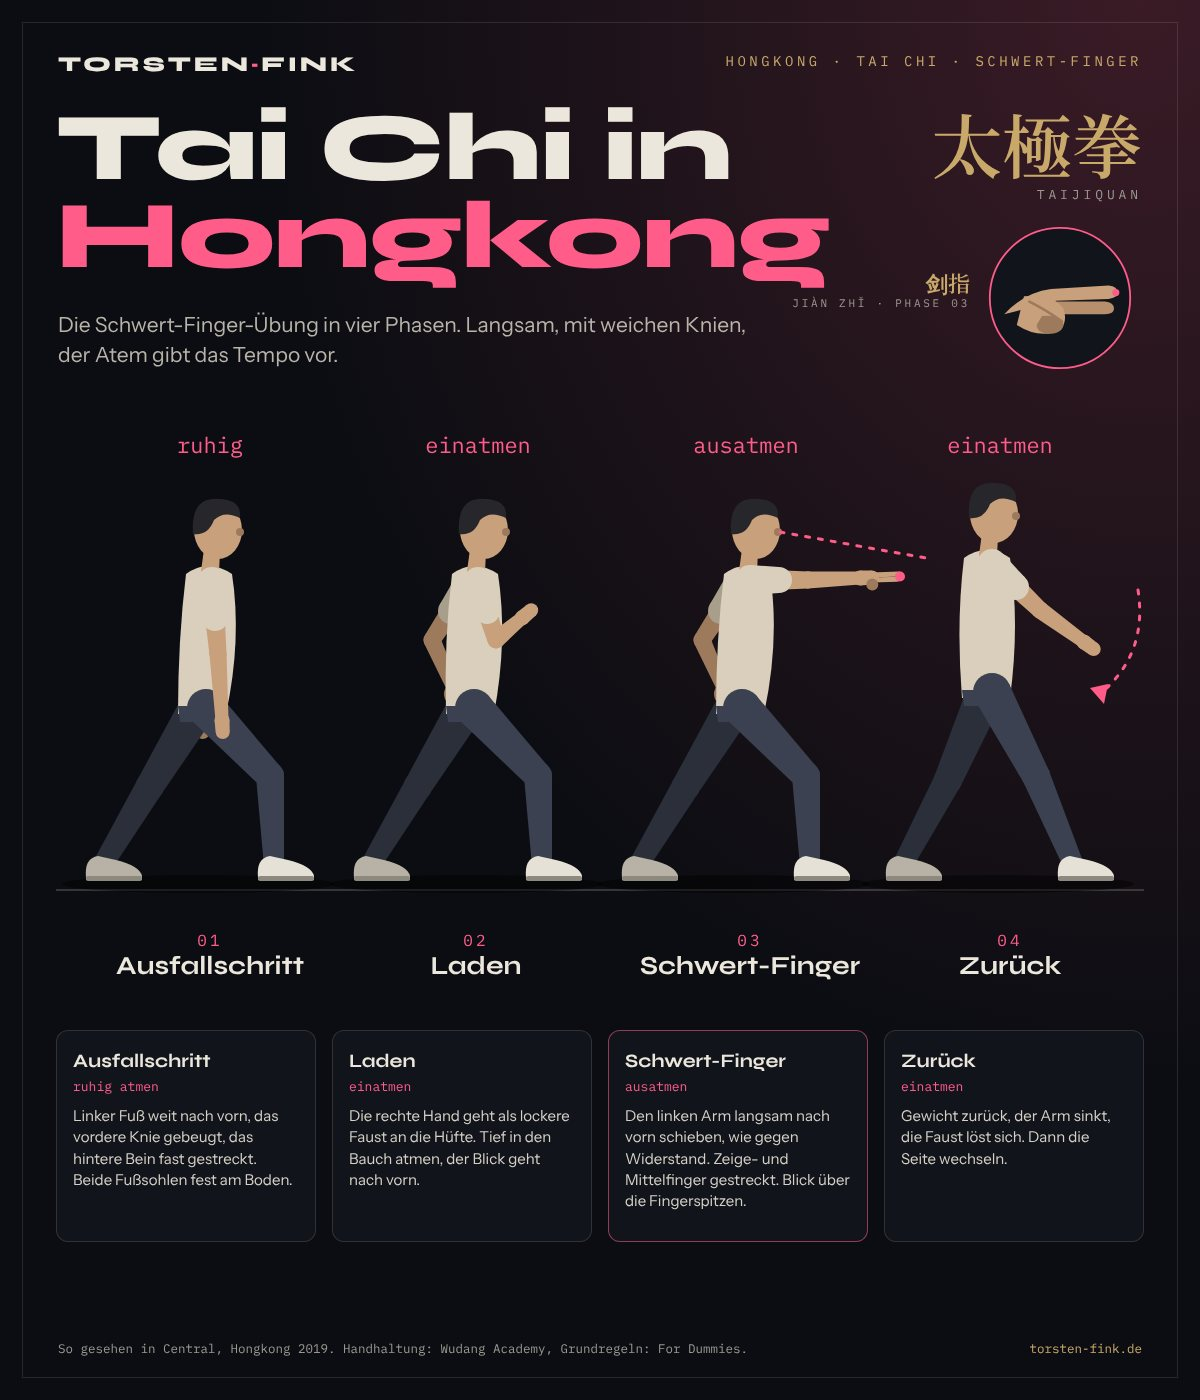
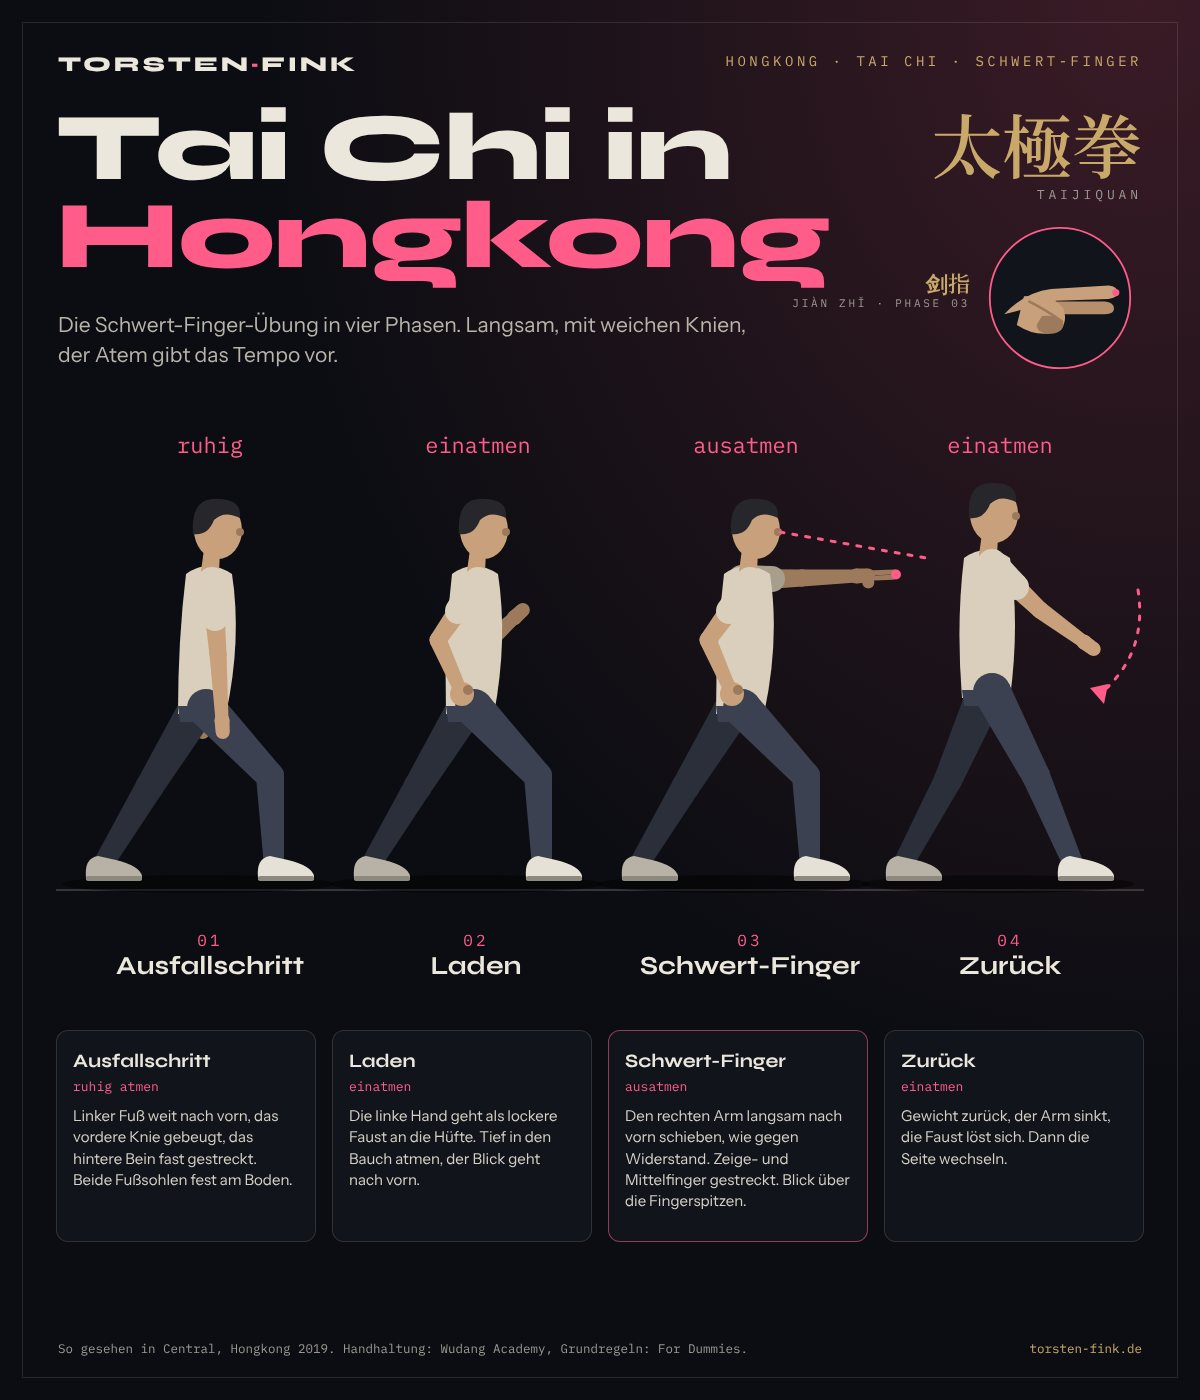
Tai Chi: rechter Arm mit Schwert-Finger, linke Faust an der Hüfte; „positiv“ statt „freundlich“
Claude-Session: https://claude.ai/code/session_01Fba3anoUoR8ZEjRTz6aG6g

diff --git a/guides/hongkong-tai-chi.html b/guides/hongkong-tai-chi.html
@@ -19,7 +19,7 @@
 <meta property="og:image:width" content="1200">
 <meta property="og:image:height" content="630">
 <meta property="article:published_time" content="2026-10-23T00:00:00+02:00">
-<meta property="article:modified_time" content="2026-10-23T00:00:00+02:00">
+<meta property="article:modified_time" content="2026-10-24T00:00:00+02:00">
 <meta property="article:author" content="Torsten Fink">
 <meta property="article:section" content="Reise-Wissen">
 <meta property="article:tag" content="Hongkong">
@@ -39,7 +39,7 @@
       "description":"Was Tai Chi ist, wie alt es ist und was Studien zur Wirkung sagen, mit der Schwert-Finger-Übung in vier Phasen, eigener Grafik und eigenen Fotos aus Hongkong.",
       "inLanguage":"de",
       "datePublished":"2026-10-23T00:00:00+02:00",
-      "dateModified":"2026-10-23T00:00:00+02:00",
+      "dateModified":"2026-10-24T00:00:00+02:00",
       "image":{"@type":"ImageObject","contentUrl":"https://torsten-fink.de/assets/images/guides/hongkong-tai-chi-grafik.jpg","url":"https://torsten-fink.de/assets/images/guides/hongkong-tai-chi-grafik.jpg","width":1200,"height":1400,"caption":"Tai-Chi-Übung mit Schwert-Finger in vier Phasen: Ausfallschritt, Laden, Schwert-Finger, Zurück","creator":{"@type":"Person","@id":"https://torsten-fink.de/#person","name":"Torsten Fink"},"creditText":"Torsten Fink","copyrightNotice":"© Torsten Fink","license":"https://torsten-fink.de/impressum.html#urheberrecht","acquireLicensePage":"https://torsten-fink.de/impressum.html#urheberrecht"},
       "author":{"@type":"Person","@id":"https://torsten-fink.de/#person","name":"Torsten Fink","url":"https://torsten-fink.de/","sameAs":["https://www.instagram.com/torstenfinkbayern/","https://x.com/finktorsten","https://www.linkedin.com/in/torsten-fink-20220860"]},
       "mainEntityOfPage":"https://torsten-fink.de/guides/hongkong-tai-chi.html",
@@ -114,7 +114,7 @@
 </header>
 
 <article>
-  <p>Hongkong riecht. Das meine ich freundlich. Morgens in den Parks und den kleinen Grünanlagen mischt sich der Duft der Stadt mit dem Duft der Bäume, und so habe ich das selten irgendwo gerochen. Vielleicht kein Zufall bei einer Stadt, deren Name übersetzt „duftender Hafen“ heißt. Gemeint war damit wohl das Räucherholz, mit dem hier früher gehandelt wurde. Ganz sicher ist das nicht.</p>
+  <p>Hongkong riecht. Das meine ich positiv. Morgens in den Parks und den kleinen Grünanlagen mischt sich der Duft der Stadt mit dem Duft der Bäume, und so habe ich das selten irgendwo gerochen. Vielleicht kein Zufall bei einer Stadt, deren Name übersetzt „duftender Hafen“ heißt. Gemeint war damit wohl das Räucherholz, mit dem hier früher gehandelt wurde. Ganz sicher ist das nicht.</p>
 
   <p>Und überall standen sie. Allein, zu zweit, manchmal mehr. Die Arme in Zeitlupe, das Gewicht wandert von einem Fuß auf den anderen. Vollkommen ausgeglichen.</p>
 
@@ -152,15 +152,15 @@
   <figure>
     <picture>
       <source type="image/webp" srcset="../assets/images/guides/hongkong-tai-chi-grafik.webp 1200w, ../assets/images/guides/hongkong-tai-chi-grafik-2x.webp 2400w" sizes="(max-width: 760px) 100vw, 680px">
-      <img src="../assets/images/guides/hongkong-tai-chi-grafik.jpg" srcset="../assets/images/guides/hongkong-tai-chi-grafik.jpg 1200w, ../assets/images/guides/hongkong-tai-chi-grafik-2x.jpg 2400w" sizes="(max-width: 760px) 100vw, 680px" width="1200" height="1400" alt="Grafik: vier gezeichnete Figuren in Seitenansicht. 01 tiefer Ausfallschritt, 02 die rechte Hand als Faust an der Hüfte, 03 der linke Arm schiebt nach vorn, Zeige- und Mittelfinger gestreckt, der Blick folgt, 04 das Gewicht geht zurück, der Arm sinkt. Daneben eine Detailansicht der Hand, darunter je eine Karte mit Atem und Hinweis." loading="lazy">
+      <img src="../assets/images/guides/hongkong-tai-chi-grafik.jpg" srcset="../assets/images/guides/hongkong-tai-chi-grafik.jpg 1200w, ../assets/images/guides/hongkong-tai-chi-grafik-2x.jpg 2400w" sizes="(max-width: 760px) 100vw, 680px" width="1200" height="1400" alt="Grafik: vier gezeichnete Figuren in Seitenansicht. 01 tiefer Ausfallschritt, 02 die linke Hand als Faust an der Hüfte, 03 der rechte Arm schiebt nach vorn, Zeige- und Mittelfinger gestreckt, der Blick folgt, 04 das Gewicht geht zurück, der Arm sinkt. Daneben eine Detailansicht der Hand, darunter je eine Karte mit Atem und Hinweis." loading="lazy">
     </picture>
     <figcaption>Die Schwert-Finger-Übung in vier Phasen, so gesehen in Central 2019</figcaption>
   </figure>
 
   <ol class="steps">
     <li><b>Ausfallschritt<span class="atem">ruhig atmen</span></b>Mit dem linken Fuß einen weiten Schritt nach vorn. Das vordere Knie ist gebeugt, das hintere Bein fast gestreckt. Beide Fußsohlen stehen fest am Boden, das Gewicht liegt spürbar vorn. Nur so tief, wie es bequem bleibt.</li>
-    <li><b>Laden<span class="atem">einatmen</span></b>Die rechte Hand geht als lockere Faust zurück an die Hüfte. Tief in den Bauch einatmen, der Blick geht schon nach vorn.</li>
-    <li><b>Schwert-Finger<span class="atem">ausatmen</span></b>Den linken Arm langsam nach vorn schieben, kontrolliert, als würde man gegen einen Widerstand drücken. Die Hand formt den Schwert-Finger: Zeige- und Mittelfinger gestreckt und zusammen, Ring- und kleiner Finger eingerollt, der Daumen liegt darauf. Der Blick geht über die Fingerspitzen hinweg auf einen festen Punkt in der Ferne.</li>
+    <li><b>Laden<span class="atem">einatmen</span></b>Die linke Hand geht als lockere Faust zurück an die Hüfte. Tief in den Bauch einatmen, der Blick geht schon nach vorn.</li>
+    <li><b>Schwert-Finger<span class="atem">ausatmen</span></b>Den rechten Arm langsam nach vorn schieben, kontrolliert, als würde man gegen einen Widerstand drücken. Die Hand formt den Schwert-Finger: Zeige- und Mittelfinger gestreckt und zusammen, Ring- und kleiner Finger eingerollt, der Daumen liegt darauf. Der Blick geht über die Fingerspitzen hinweg auf einen festen Punkt in der Ferne.</li>
     <li><b>Zurück<span class="atem">einatmen</span></b>Das Gewicht wandert zurück aufs hintere Bein, der Arm sinkt, die Faust löst sich. Fuß zurückstellen, Seite wechseln. Ein paar Runden, so langsam, wie es geht.</li>
   </ol>
     <p class="note">Der Ausfallschritt geht auf die Knie. Wer Probleme mit Knien oder Rücken hat, fragt vorher die Ärztin oder den Arzt. Richtig lernt man Tai Chi bei jemandem, der es unterrichtet. Eine Website ersetzt das nicht, diese auch nicht.</p>
